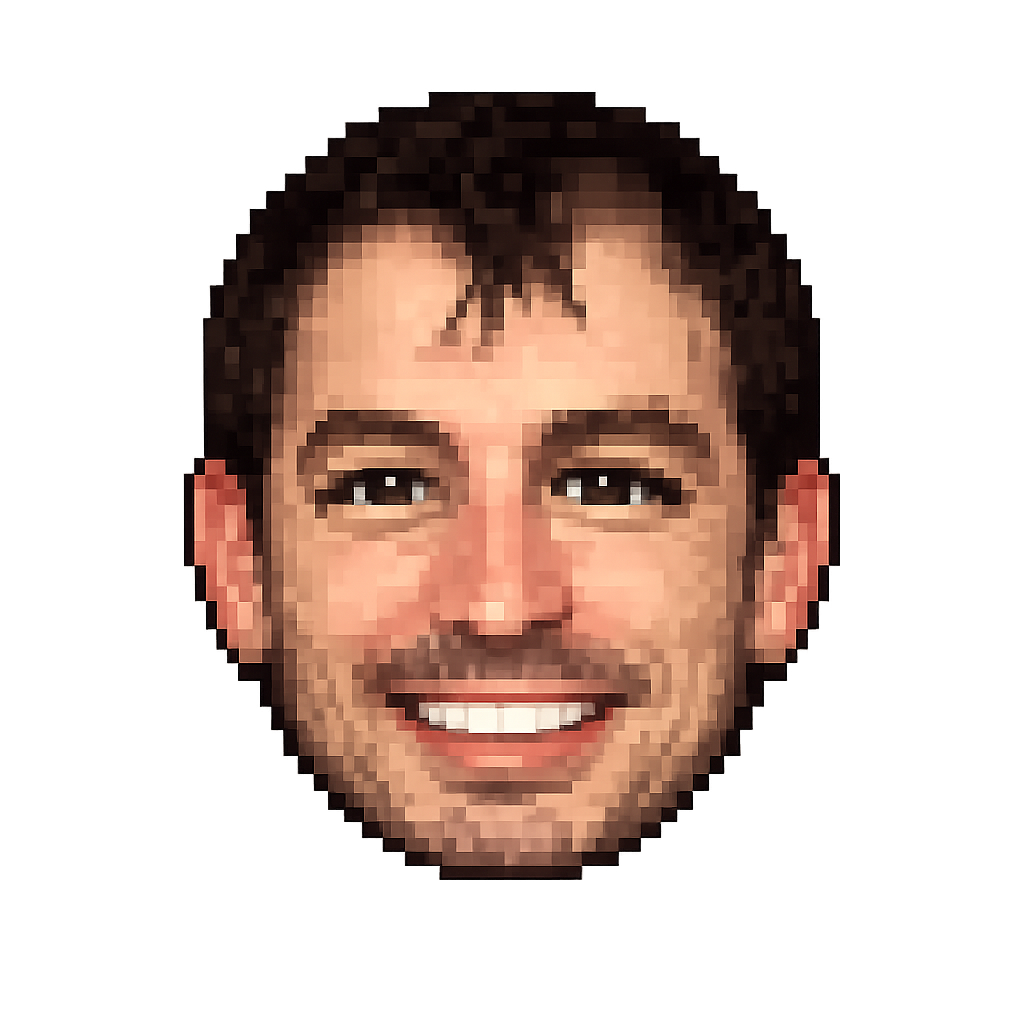
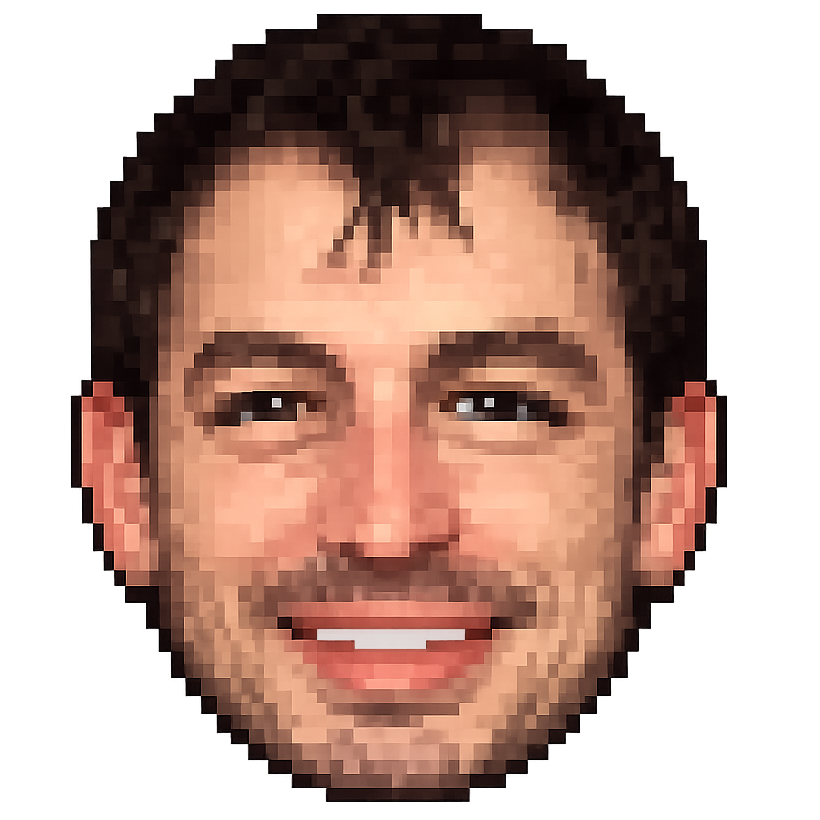
Adjust pacman image display

diff --git a/src/index.css b/src/index.css
@@ -216,7 +216,7 @@ button {
   background-image: var(--player-image);
   background-position: center;
   background-repeat: no-repeat;
-  background-size: 138%;
+  background-size: contain;
   border-radius: 50%;
   overflow: hidden;
   transform-origin: center 58%;
@@ -242,7 +242,7 @@ button {
   background:
     radial-gradient(circle at 35% 35%, rgba(248, 250, 252, 0.95) 0 8%, transparent 9%),
     linear-gradient(rgba(239, 68, 68, 0.62), rgba(239, 68, 68, 0.62)),
-    var(--player-image) center / 138% no-repeat,
+    var(--player-image) center / contain no-repeat,
     #0f172a;
   box-shadow: 0 0 0 0.25rem rgba(250, 204, 21, 0.45);
   animation: caught-pulse 1.2s ease-in-out forwards;
